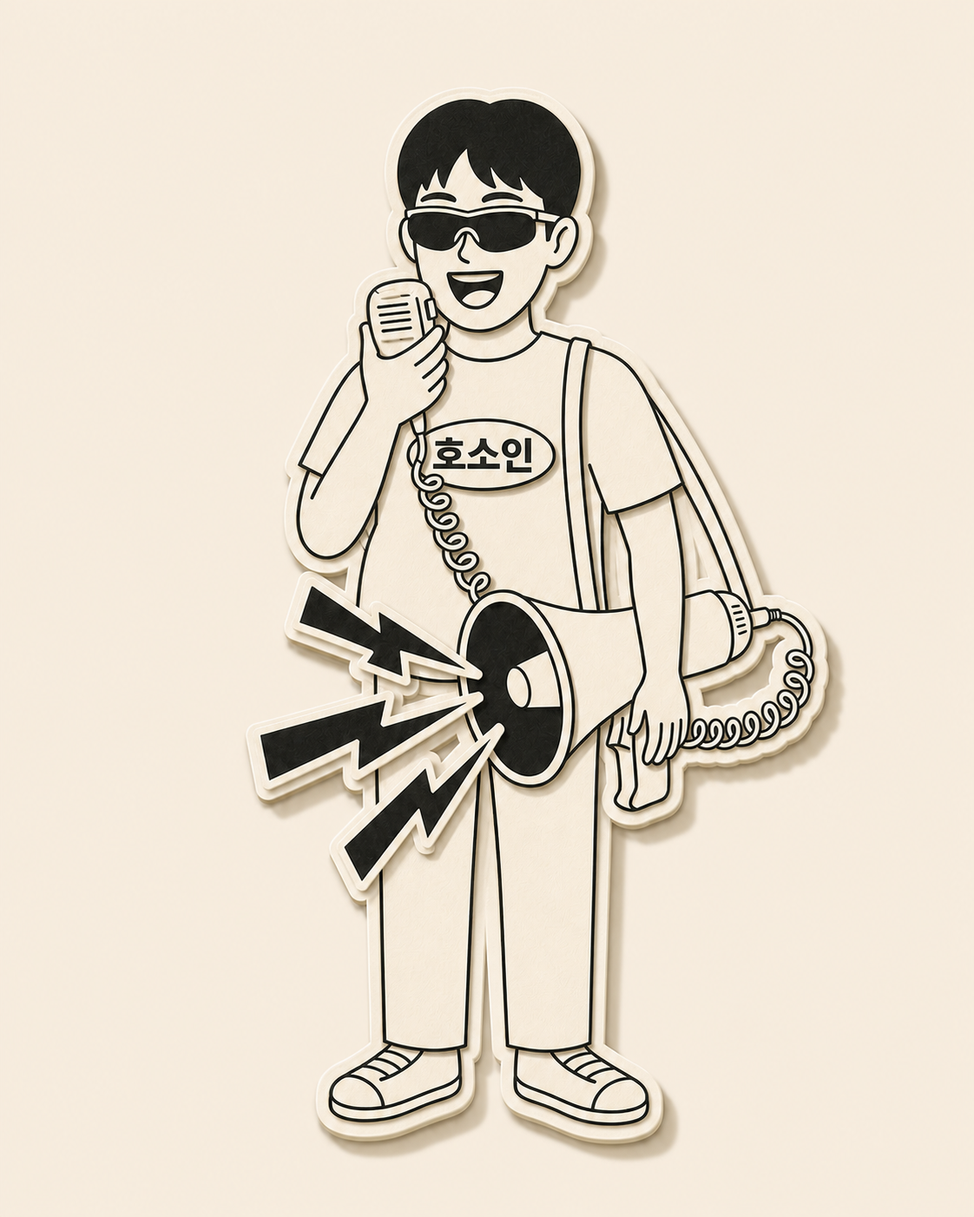
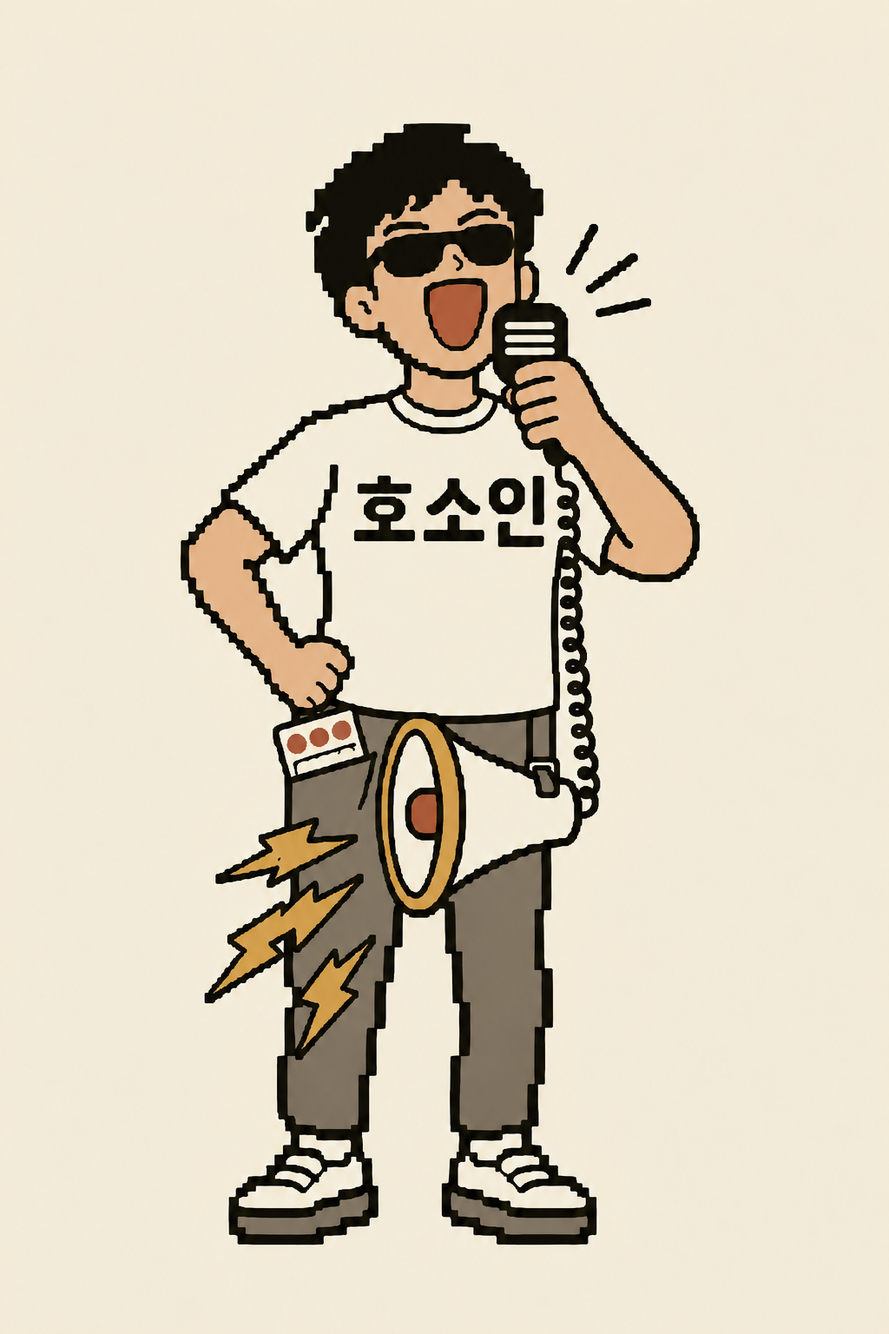
KAN-325 5등급 캐릭터를 컬러 픽셀 아트로 교체 - 사투리 여행 컨셉, 토박이 지도는 통계청 경계 합성, 결과 화면·공유 카드·가이드·링크 미리보기 갱신, 캐시 때문에 가이드 이미지 -v2·웹 자산 v3로 파일명 변경

Changed region(s): [[0.1875, 0.0613, 0.875, 0.9508]]

diff --git a/web/public/guide/index.html b/web/public/guide/index.html
@@ -407,7 +407,7 @@ nav a:hover { box-shadow: 4px 5px 0 var(--paper); }
         Android 앱, iOS 앱, 그리고 웹(accentury.app)에서 같은 테스트를 할 수 있습니다.
       </p>
       </section>
-      <section class="test-story" aria-labelledby="test-title"><h2 id="test-title">사투리 억양 테스트는 어떻게 진행되나</h2><div class="story-layout"><div class="phone-stage"><div class="phone" aria-hidden="true"><div class="phone-screen is-active" data-screen="0"><div class="app-brand">Accentury</div><div class="app-home-card app-card"><img src="/icon-192-v2.png" alt=""><h3>내 사투리 레벨 테스트</h3><p>억양과 단어로 내 사투리 등급을 알아봐요</p><div class="app-button ">레벨 테스트 시작</div></div><div class="app-attendance"><b>연속 출석</b><p>오늘 학습하면 출석이 시작돼요</p><div><span>월<i>○</i></span><span>화<i>○</i></span><span>수<i>○</i></span><span>목<i>○</i></span><span>금<i>○</i></span><span>토<i>○</i></span><span>일<i>○</i></span></div></div><div class="app-tabs"><div class=""><svg viewBox="0 0 36 36"><rect x="7" y="4" width="18" height="25" rx="2"/><path d="M7 24h18"/></svg><span>단어 학습</span></div><div class=""><svg viewBox="0 0 36 36"><path d="M2 22 Q7 2 12 18 T23 17 T30 13"/></svg><span>억양 학습</span></div><div class="active"><svg viewBox="0 0 36 36"><path d="M3 15 16 3 29 15v15H20V20h-8v10H3Z"/></svg><span>홈</span></div><div class=""><svg viewBox="0 0 36 36"><path d="M3 4h22v16H12l-7 6v-6H3Z M14 23h8l7 6V12"/></svg><span>사투리 번역기</span></div><div class=""><svg viewBox="0 0 36 36"><path d="m12 3 8 0 1 5 5 3 5-1 2 8-5 3-1 5-5 0-3 4-7-3-1-5-5-2 2-8 5-1Z"/><circle cx="17" cy="17" r="6"/></svg><span>설정</span></div></div></div><div class="phone-screen " data-screen="1"><div class="app-check"><div class="app-brand">Accentury</div><h3 class="app-check-title">목소리를 확인할게요</h3><p class="app-check-sub">아래 말을 편하게 해 주세요</p><div class="app-check-card app-card"><label>목소리 점검</label><h3>안녕하세요</h3></div><div class="app-pitch"><div class="app-lane"><label>내 억양</label><svg class="app-live" viewBox="0 0 340 100"><defs><pattern id="check-dots" width="4.5" height="4.5" patternUnits="userSpaceOnUse"><circle cx="2" cy="2" r=".85" fill="var(--brick)"/></pattern></defs><g><path fill="url(#check-dots)" d="M65 62 C95 63 107 65 142 52 L142 100 H65Z"/><path class="app-curve" d="M65 62 C95 63 107 65 142 52"/></g></svg></div></div><div class="app-level"><i></i></div><div class="app-notice">좋아요, 목소리가 잘 들려요</div><div class="app-check-footer"><div class="app-button ">다음</div><p>이 소리는 저장하거나 보내지 않아요</p></div></div><div class="app-count"><div class="app-brand">Accentury</div><span class="app-settings"><svg viewBox="0 0 36 36"><path d="m12 3 8 0 1 5 5 3 5-1 2 8-5 3-1 5-5 0-3 4-7-3-1-5-5-2 2-8 5-1Z"/><circle cx="17" cy="17" r="6"/></svg></span><div class="app-count-body"><h3>곧 시작합니다</h3><p>당신의 경남 사투리 실력을 보여주세요!</p><div class="app-count-ring">3</div></div></div></div><div class="phone-screen " data-screen="2"><div class="app-voice"><div class="app-brand">Accentury</div><span class="app-close">×</span><div class="app-progress"><div>문항 진행률 <span>1 / 7 · 음성</span></div><div class="app-segments "><i></i><i></i><i></i><i></i><i></i><i></i><i></i></div></div><div class="app-prompt app-card"><span>뿌듯한 느낌으로 말해주세요!</span><h3>여기는 봄만 되면 진달래하고 참나리가 온데만데 피가 억수로 이뻐예.</h3></div><div class="app-pitch"><div class="app-lane"><label>가이드</label><svg viewBox="0 0 340 100"><path class="app-guide" d="M0 28 C4 3 7 28 12 39 S23 58 29 70 C35 85 29 36 38 29 S47 17 52 23 C62 16 67 36 72 38 S81 65 88 75 S101 99 106 90 C112 85 106 58 114 58 C119 14 128 48 134 51 S144 87 148 77 C153 69 145 39 157 33 S166 51 170 60 S176 76 182 74 C190 94 190 47 201 36 C207 22 209 56 218 52 L224 59 L227 29 C231 48 237 45 243 54 S252 71 258 68 C268 64 261 21 272 24 L277 20 L283 23 L287 17 L291 23 L295 19 C308 27 300 76 312 74 C319 84 315 40 323 53 S333 92 336 91 L340 88"/></svg></div><div class="app-lane"><label>내 억양</label><svg class="app-live" viewBox="0 0 340 100"><defs><pattern id="voice-dots" width="4.5" height="4.5" patternUnits="userSpaceOnUse"><circle cx="2" cy="2" r=".85" fill="var(--brick)"/></pattern></defs><g><path fill="url(#voice-dots)" d="M12 61 C20 64 22 60 28 49 S37 14 42 18 C50 13 51 40 59 49 S69 61 77 60 L89 59 C95 60 101 96 105 83 C109 58 113 53 122 50 S133 21 143 29 S152 47 160 36 S167 21 171 18 L171 100 H12Z"/><path class="app-curve" d="M12 61 C20 64 22 60 28 49 S37 14 42 18 C50 13 51 40 59 49 S69 61 77 60 L89 59 C95 60 101 96 105 83 C109 58 113 53 122 50 S133 21 143 29 S152 47 160 36 S167 21 171 18"/></g></svg></div></div><div class="app-mic"><div><svg viewBox="0 0 40 40"><rect x="16" y="6" width="8" height="19" rx="4"/><path d="M11 20v3a9 9 0 0 0 18 0v-3 M20 32v7"/></svg></div><p>버튼을 눌러 녹음</p></div><div class="app-recorded"><div class="app-notice">녹음 상태가 좋아요<small>녹음 길이 2.5초</small></div><div class="app-actions"><div class="app-button secondary">재녹음</div><div class="app-button ">다음</div></div></div></div><div class="app-word"><div class="app-brand">Accentury</div><span class="app-settings"><svg viewBox="0 0 36 36"><path d="m12 3 8 0 1 5 5 3 5-1 2 8-5 3-1 5-5 0-3 4-7-3-1-5-5-2 2-8 5-1Z"/><circle cx="17" cy="17" r="6"/></svg></span><div class="app-progress"><div>문항 진행률 <span>3 / 7 · 단어</span></div><div class="app-segments word-segments"><i></i><i></i><i></i><i></i><i></i><i></i><i></i></div></div><div class="app-word-card app-card"><label>3 / 7 · 이 말은 무슨 뜻일까요?</label><h3>'정구지'는 표준어로 무엇일까요?</h3></div><div class="app-choices"><div><span>1</span>구기자</div><div><span>2</span>젓국</div><div><span>3</span>부추<b>✓</b></div><div><span>4</span>정과</div></div><div class="app-button app-word-next">다음</div></div></div><div class="phone-screen " data-screen="3"><div class="app-brand">Accentury</div><div class="app-analysis"><label class="app-analysis-count">7문항 중 3개 완료</label><div class="app-analysis-bar"><i></i></div><h3>분석 중입니다</h3><p class="app-analysis-lead">결과를 만들고 있어요</p><div class="app-analysis-steps"><div class="current"><span>1</span>곡선 추출</div><div><span>2</span>분포 비교</div><div><span>3</span>등급 계산</div></div><p>잠시만 기다려 주세요</p><ul class="app-analysis-rows"><li>1번 문항 <span>◷ 분석 중</span></li><li>2번 문항 <span>◷ 분석 중</span></li><li>4번 문항 <span>◷ 분석 중</span></li><li>6번 문항 <span>◷ 분석 중</span></li></ul></div></div><div class="phone-screen " data-screen="4"><div class="app-brand">Accentury</div><div class="app-result"><div class="result-stamp"><img src="/guide/assets/outsider.webp" alt=""><h3>외지인</h3><p>5개 등급 중 1번째</p></div><p class="app-comment">단어는 좋았어요! 억양만 조금 더 살리면 여행객까지 한 걸음이에요.</p><div class="app-score app-card"><div class="app-score-ring"><svg viewBox="0 0 100 100"><circle cx="50" cy="50" r="45"/><circle class="score-arc" cx="50" cy="50" r="45"/></svg><strong>16점</strong></div><div class="app-score-bars"><div>억양 <b>11점</b><i><em style="width:11%"></em></i></div><div>단어 <b>25점</b><i><em style="width:25%"></em></i></div></div></div><p class="app-score-note">경남 토박이 녹음과 비교한 AI 추정치예요</p><div class="app-button app-share"><svg class="app-share-icon" viewBox="0 0 24 24"><path d="M12 16V2m-5 5 5-5 5 5 M5 12H3v10h18V12h-2"/></svg>친구에게 공유하기</div></div><div class="app-tabs"><div class=""><svg viewBox="0 0 36 36"><rect x="7" y="4" width="18" height="25" rx="2"/><path d="M7 24h18"/></svg><span>단어 학습</span></div><div class=""><svg viewBox="0 0 36 36"><path d="M2 22 Q7 2 12 18 T23 17 T30 13"/></svg><span>억양 학습</span></div><div class=""><svg viewBox="0 0 36 36"><path d="M3 15 16 3 29 15v15H20V20h-8v10H3Z"/></svg><span>홈</span></div><div class=""><svg viewBox="0 0 36 36"><path d="M3 4h22v16H12l-7 6v-6H3Z M14 23h8l7 6V12"/></svg><span>사투리 번역기</span></div><div class=""><svg viewBox="0 0 36 36"><path d="m12 3 8 0 1 5 5 3 5-1 2 8-5 3-1 5-5 0-3 4-7-3-1-5-5-2 2-8 5-1Z"/><circle cx="17" cy="17" r="6"/></svg><span>설정</span></div></div></div></div><div class="step-progress" aria-hidden="true"><span class="is-active">1</span><span class="">2</span><span class="">3</span><span class="">4</span><span class="">5</span></div></div><ol class="steps"><li class="step is-active" data-step="0"><span class="step-number">01</span><h3>시작하기 전에</h3><p>시작 버튼을 누르면 브라우저가 마이크 사용 권한을 묻습니다.</p></li><li class="step " data-step="1"><span class="step-number">02</span><h3>목소리 점검과 카운트다운</h3><p>첫 문항 전에 "안녕하세요"를 한 번 말하는 점검 화면이 있습니다.</p></li><li class="step " data-step="2"><span class="step-number">03</span><h3>음성 문항과 단어 문항</h3><p>문항은 두 종류가 섞여 나옵니다.</p></li><li class="step " data-step="3"><span class="step-number">04</span><h3>분석을 기다리는 동안</h3><p>음성 문항의 녹음은 [다음]을 누를 때 서버로 올라갑니다.</p></li><li class="step " data-step="4"><span class="step-number">05</span><h3>결과 화면</h3><p>결과 화면에는 다섯 등급 가운데 내 등급과 캐릭터, 억양 점수와 단어 점수가 나옵니다.</p></li></ol></div></section>
+      <section class="test-story" aria-labelledby="test-title"><h2 id="test-title">사투리 억양 테스트는 어떻게 진행되나</h2><div class="story-layout"><div class="phone-stage"><div class="phone" aria-hidden="true"><div class="phone-screen is-active" data-screen="0"><div class="app-brand">Accentury</div><div class="app-home-card app-card"><img src="/icon-192-v3.png" alt=""><h3>내 사투리 레벨 테스트</h3><p>억양과 단어로 내 사투리 등급을 알아봐요</p><div class="app-button ">레벨 테스트 시작</div></div><div class="app-attendance"><b>연속 출석</b><p>오늘 학습하면 출석이 시작돼요</p><div><span>월<i>○</i></span><span>화<i>○</i></span><span>수<i>○</i></span><span>목<i>○</i></span><span>금<i>○</i></span><span>토<i>○</i></span><span>일<i>○</i></span></div></div><div class="app-tabs"><div class=""><svg viewBox="0 0 36 36"><rect x="7" y="4" width="18" height="25" rx="2"/><path d="M7 24h18"/></svg><span>단어 학습</span></div><div class=""><svg viewBox="0 0 36 36"><path d="M2 22 Q7 2 12 18 T23 17 T30 13"/></svg><span>억양 학습</span></div><div class="active"><svg viewBox="0 0 36 36"><path d="M3 15 16 3 29 15v15H20V20h-8v10H3Z"/></svg><span>홈</span></div><div class=""><svg viewBox="0 0 36 36"><path d="M3 4h22v16H12l-7 6v-6H3Z M14 23h8l7 6V12"/></svg><span>사투리 번역기</span></div><div class=""><svg viewBox="0 0 36 36"><path d="m12 3 8 0 1 5 5 3 5-1 2 8-5 3-1 5-5 0-3 4-7-3-1-5-5-2 2-8 5-1Z"/><circle cx="17" cy="17" r="6"/></svg><span>설정</span></div></div></div><div class="phone-screen " data-screen="1"><div class="app-check"><div class="app-brand">Accentury</div><h3 class="app-check-title">목소리를 확인할게요</h3><p class="app-check-sub">아래 말을 편하게 해 주세요</p><div class="app-check-card app-card"><label>목소리 점검</label><h3>안녕하세요</h3></div><div class="app-pitch"><div class="app-lane"><label>내 억양</label><svg class="app-live" viewBox="0 0 340 100"><defs><pattern id="check-dots" width="4.5" height="4.5" patternUnits="userSpaceOnUse"><circle cx="2" cy="2" r=".85" fill="var(--brick)"/></pattern></defs><g><path fill="url(#check-dots)" d="M65 62 C95 63 107 65 142 52 L142 100 H65Z"/><path class="app-curve" d="M65 62 C95 63 107 65 142 52"/></g></svg></div></div><div class="app-level"><i></i></div><div class="app-notice">좋아요, 목소리가 잘 들려요</div><div class="app-check-footer"><div class="app-button ">다음</div><p>이 소리는 저장하거나 보내지 않아요</p></div></div><div class="app-count"><div class="app-brand">Accentury</div><span class="app-settings"><svg viewBox="0 0 36 36"><path d="m12 3 8 0 1 5 5 3 5-1 2 8-5 3-1 5-5 0-3 4-7-3-1-5-5-2 2-8 5-1Z"/><circle cx="17" cy="17" r="6"/></svg></span><div class="app-count-body"><h3>곧 시작합니다</h3><p>당신의 경남 사투리 실력을 보여주세요!</p><div class="app-count-ring">3</div></div></div></div><div class="phone-screen " data-screen="2"><div class="app-voice"><div class="app-brand">Accentury</div><span class="app-close">×</span><div class="app-progress"><div>문항 진행률 <span>1 / 7 · 음성</span></div><div class="app-segments "><i></i><i></i><i></i><i></i><i></i><i></i><i></i></div></div><div class="app-prompt app-card"><span>뿌듯한 느낌으로 말해주세요!</span><h3>여기는 봄만 되면 진달래하고 참나리가 온데만데 피가 억수로 이뻐예.</h3></div><div class="app-pitch"><div class="app-lane"><label>가이드</label><svg viewBox="0 0 340 100"><path class="app-guide" d="M0 28 C4 3 7 28 12 39 S23 58 29 70 C35 85 29 36 38 29 S47 17 52 23 C62 16 67 36 72 38 S81 65 88 75 S101 99 106 90 C112 85 106 58 114 58 C119 14 128 48 134 51 S144 87 148 77 C153 69 145 39 157 33 S166 51 170 60 S176 76 182 74 C190 94 190 47 201 36 C207 22 209 56 218 52 L224 59 L227 29 C231 48 237 45 243 54 S252 71 258 68 C268 64 261 21 272 24 L277 20 L283 23 L287 17 L291 23 L295 19 C308 27 300 76 312 74 C319 84 315 40 323 53 S333 92 336 91 L340 88"/></svg></div><div class="app-lane"><label>내 억양</label><svg class="app-live" viewBox="0 0 340 100"><defs><pattern id="voice-dots" width="4.5" height="4.5" patternUnits="userSpaceOnUse"><circle cx="2" cy="2" r=".85" fill="var(--brick)"/></pattern></defs><g><path fill="url(#voice-dots)" d="M12 61 C20 64 22 60 28 49 S37 14 42 18 C50 13 51 40 59 49 S69 61 77 60 L89 59 C95 60 101 96 105 83 C109 58 113 53 122 50 S133 21 143 29 S152 47 160 36 S167 21 171 18 L171 100 H12Z"/><path class="app-curve" d="M12 61 C20 64 22 60 28 49 S37 14 42 18 C50 13 51 40 59 49 S69 61 77 60 L89 59 C95 60 101 96 105 83 C109 58 113 53 122 50 S133 21 143 29 S152 47 160 36 S167 21 171 18"/></g></svg></div></div><div class="app-mic"><div><svg viewBox="0 0 40 40"><rect x="16" y="6" width="8" height="19" rx="4"/><path d="M11 20v3a9 9 0 0 0 18 0v-3 M20 32v7"/></svg></div><p>버튼을 눌러 녹음</p></div><div class="app-recorded"><div class="app-notice">녹음 상태가 좋아요<small>녹음 길이 2.5초</small></div><div class="app-actions"><div class="app-button secondary">재녹음</div><div class="app-button ">다음</div></div></div></div><div class="app-word"><div class="app-brand">Accentury</div><span class="app-settings"><svg viewBox="0 0 36 36"><path d="m12 3 8 0 1 5 5 3 5-1 2 8-5 3-1 5-5 0-3 4-7-3-1-5-5-2 2-8 5-1Z"/><circle cx="17" cy="17" r="6"/></svg></span><div class="app-progress"><div>문항 진행률 <span>3 / 7 · 단어</span></div><div class="app-segments word-segments"><i></i><i></i><i></i><i></i><i></i><i></i><i></i></div></div><div class="app-word-card app-card"><label>3 / 7 · 이 말은 무슨 뜻일까요?</label><h3>'정구지'는 표준어로 무엇일까요?</h3></div><div class="app-choices"><div><span>1</span>구기자</div><div><span>2</span>젓국</div><div><span>3</span>부추<b>✓</b></div><div><span>4</span>정과</div></div><div class="app-button app-word-next">다음</div></div></div><div class="phone-screen " data-screen="3"><div class="app-brand">Accentury</div><div class="app-analysis"><label class="app-analysis-count">7문항 중 3개 완료</label><div class="app-analysis-bar"><i></i></div><h3>분석 중입니다</h3><p class="app-analysis-lead">결과를 만들고 있어요</p><div class="app-analysis-steps"><div class="current"><span>1</span>곡선 추출</div><div><span>2</span>분포 비교</div><div><span>3</span>등급 계산</div></div><p>잠시만 기다려 주세요</p><ul class="app-analysis-rows"><li>1번 문항 <span>◷ 분석 중</span></li><li>2번 문항 <span>◷ 분석 중</span></li><li>4번 문항 <span>◷ 분석 중</span></li><li>6번 문항 <span>◷ 분석 중</span></li></ul></div></div><div class="phone-screen " data-screen="4"><div class="app-brand">Accentury</div><div class="app-result"><div class="result-stamp"><img src="/guide/assets/outsider-v2.webp" alt=""><h3>외지인</h3><p>5개 등급 중 1번째</p></div><p class="app-comment">단어는 좋았어요! 억양만 조금 더 살리면 여행객까지 한 걸음이에요.</p><div class="app-score app-card"><div class="app-score-ring"><svg viewBox="0 0 100 100"><circle cx="50" cy="50" r="45"/><circle class="score-arc" cx="50" cy="50" r="45"/></svg><strong>16점</strong></div><div class="app-score-bars"><div>억양 <b>11점</b><i><em style="width:11%"></em></i></div><div>단어 <b>25점</b><i><em style="width:25%"></em></i></div></div></div><p class="app-score-note">경남 토박이 녹음과 비교한 AI 추정치예요</p><div class="app-button app-share"><svg class="app-share-icon" viewBox="0 0 24 24"><path d="M12 16V2m-5 5 5-5 5 5 M5 12H3v10h18V12h-2"/></svg>친구에게 공유하기</div></div><div class="app-tabs"><div class=""><svg viewBox="0 0 36 36"><rect x="7" y="4" width="18" height="25" rx="2"/><path d="M7 24h18"/></svg><span>단어 학습</span></div><div class=""><svg viewBox="0 0 36 36"><path d="M2 22 Q7 2 12 18 T23 17 T30 13"/></svg><span>억양 학습</span></div><div class=""><svg viewBox="0 0 36 36"><path d="M3 15 16 3 29 15v15H20V20h-8v10H3Z"/></svg><span>홈</span></div><div class=""><svg viewBox="0 0 36 36"><path d="M3 4h22v16H12l-7 6v-6H3Z M14 23h8l7 6V12"/></svg><span>사투리 번역기</span></div><div class=""><svg viewBox="0 0 36 36"><path d="m12 3 8 0 1 5 5 3 5-1 2 8-5 3-1 5-5 0-3 4-7-3-1-5-5-2 2-8 5-1Z"/><circle cx="17" cy="17" r="6"/></svg><span>설정</span></div></div></div></div><div class="step-progress" aria-hidden="true"><span class="is-active">1</span><span class="">2</span><span class="">3</span><span class="">4</span><span class="">5</span></div></div><ol class="steps"><li class="step is-active" data-step="0"><span class="step-number">01</span><h3>시작하기 전에</h3><p>시작 버튼을 누르면 브라우저가 마이크 사용 권한을 묻습니다.</p></li><li class="step " data-step="1"><span class="step-number">02</span><h3>목소리 점검과 카운트다운</h3><p>첫 문항 전에 "안녕하세요"를 한 번 말하는 점검 화면이 있습니다.</p></li><li class="step " data-step="2"><span class="step-number">03</span><h3>음성 문항과 단어 문항</h3><p>문항은 두 종류가 섞여 나옵니다.</p></li><li class="step " data-step="3"><span class="step-number">04</span><h3>분석을 기다리는 동안</h3><p>음성 문항의 녹음은 [다음]을 누를 때 서버로 올라갑니다.</p></li><li class="step " data-step="4"><span class="step-number">05</span><h3>결과 화면</h3><p>결과 화면에는 다섯 등급 가운데 내 등급과 캐릭터, 억양 점수와 단어 점수가 나옵니다.</p></li></ol></div></section>
       <section class="landing-tiers" aria-labelledby="tiers-title">
         <h2 id="tiers-title">테스트는 이렇게 진행됩니다</h2>
         <p>
@@ -416,11 +416,11 @@ nav a:hover { box-shadow: 4px 5px 0 var(--paper); }
         억양 점수와 단어 점수를 합산해 다음 다섯 등급 가운데 하나로 판정합니다.
       </p>
         <ol class="tier-grid">
-            <li class="stamp reveal"><img src="/guide/assets/outsider.webp" alt="외지인" width="160" height="160" loading="lazy" /><span>외지인</span></li>
-            <li class="stamp reveal"><img src="/guide/assets/traveler.webp" alt="여행객" width="160" height="160" loading="lazy" /><span>여행객</span></li>
-            <li class="stamp reveal"><img src="/guide/assets/wannabe.webp" alt="사투리 호소인" width="160" height="160" loading="lazy" /><span>사투리 호소인</span></li>
-            <li class="stamp reveal"><img src="/guide/assets/honorary.webp" alt="명예주민" width="160" height="160" loading="lazy" /><span>명예주민</span></li>
-            <li class="stamp reveal"><img src="/guide/assets/native.webp" alt="경남 토박이" width="160" height="160" loading="lazy" /><span>경남 토박이</span></li>
+            <li class="stamp reveal"><img src="/guide/assets/outsider-v2.webp" alt="외지인" width="160" height="160" loading="lazy" /><span>외지인</span></li>
+            <li class="stamp reveal"><img src="/guide/assets/traveler-v2.webp" alt="여행객" width="160" height="160" loading="lazy" /><span>여행객</span></li>
+            <li class="stamp reveal"><img src="/guide/assets/wannabe-v2.webp" alt="사투리 호소인" width="160" height="160" loading="lazy" /><span>사투리 호소인</span></li>
+            <li class="stamp reveal"><img src="/guide/assets/honorary-v2.webp" alt="명예주민" width="160" height="160" loading="lazy" /><span>명예주민</span></li>
+            <li class="stamp reveal"><img src="/guide/assets/native-v2.webp" alt="경남 토박이" width="160" height="160" loading="lazy" /><span>경남 토박이</span></li>
         </ol>
       </section>
       <section class="landing-stories" aria-labelledby="stories-title">

diff --git a/web/index.html b/web/index.html
@@ -15,9 +15,9 @@
       내용을 바꿔도 1년 동안 옛 것이 나간다. 교체는 build.py의 VERSION을 올려 이름을 바꾸고
       여기 참조를 따라 고치는 것이다. index.html만 no-cache라 그 즉시 새 이름이 나간다.
     -->
-    <link rel="icon" type="image/svg+xml" href="/favicon-v2.svg" />
-    <link rel="apple-touch-icon" href="/apple-touch-icon-v2.png" />
-    <link rel="manifest" href="/manifest-v2.webmanifest" />
+    <link rel="icon" type="image/svg+xml" href="/favicon-v3.svg" />
+    <link rel="apple-touch-icon" href="/apple-touch-icon-v3.png" />
+    <link rel="manifest" href="/manifest-v3.webmanifest" />
     <!-- 주소창·상태 표시줄을 화면 종이색으로. 값은 --color-background와 같다 -->
     <meta name="theme-color" content="#f3ecd9" />
 
@@ -40,7 +40,7 @@
     <meta property="og:title" content="사투리 좀 치나?" />
     <meta property="og:description" content="내 말투가 얼마나 경남 사투리인지 목소리로 재 봐요. 5등급 중 내 등급은?" />
     <meta property="og:url" content="https://accentury.app/" />
-    <meta property="og:image" content="https://accentury.app/og-card-v2.png" />
+    <meta property="og:image" content="https://accentury.app/og-card-v3.png" />
     <meta property="og:image:width" content="1200" />
     <meta property="og:image:height" content="630" />
     <meta property="og:image:alt" content="확성기를 든 사투리 호소인 캐릭터와 '사투리 좀 치나?' 문구" />

diff --git a/web/src/App.tsx b/web/src/App.tsx
@@ -856,7 +856,7 @@ function HomeScreen({
           {levelTest === null ? (
             /* 디자인 3 (KAN-288, 시안 31): 앱 아이콘·제목·설명·버튼이 종이 카드 한 장에 묶인다 */
             <div className="card home-card">
-              <img className="home-card__icon" src={`${import.meta.env.BASE_URL}icon-192-v2.png`} alt="" />
+              <img className="home-card__icon" src={`${import.meta.env.BASE_URL}icon-192-v3.png`} alt="" />
               <h1 className="type-title">내 사투리 레벨 테스트</h1>
               <p className="type-body home-card__lead">억양과 단어로 내 사투리 등급을 알아봐요</p>
               <Button onClick={onStartTest} style={{ width: '100%' }}>

diff --git a/web/src/webAppMeta.test.ts b/web/src/webAppMeta.test.ts
@@ -41,7 +41,7 @@ function pngSize(path: string): [number, number] {
   return [buf.readUInt32BE(16), buf.readUInt32BE(20)]
 }
 
-/** `/favicon-v2.svg` → `web/public/favicon-v2.svg`. 절대 URL이면 오리진을 떼고 같은 규칙을 쓴다. */
+/** `/favicon-v3.svg` → `web/public/favicon-v3.svg`. 절대 URL이면 오리진을 떼고 같은 규칙을 쓴다. */
 function publicPath(reference: string): string {
   const path = reference.startsWith(ORIGIN) ? reference.slice(ORIGIN.length) : reference
   return join(PUBLIC_DIR, path.replace(/^\//, ''))

diff --git a/web/src/translator/TranslatorScreen.test.tsx b/web/src/translator/TranslatorScreen.test.tsx
@@ -152,7 +152,7 @@ describe('요청과 결과', () => {
     submit()
     fireEvent.click(await screen.findByRole('button', { name: '공유' }))
     expect(shareResult).toHaveBeenCalledWith({
-      imageUrl: 'https://accentury.app/og-card-v2.png',
+      imageUrl: 'https://accentury.app/og-card-v3.png',
       text: '밥 먹었어? → 밥 뭇나?',
       webTestUrl: 'https://accentury.app/t?c=kko_share',
     })

diff --git a/assets/web/build.py b/assets/web/build.py
@@ -72,7 +72,7 @@ shots = _load("accentury_screenshots_build", REPO / "assets" / "screenshots" / "
 
 # ── 상수 ────────────────────────────────────────────────────────────────────────────────────
 
-VERSION = "v2"
+VERSION = "v3"
 
 CREAM = icon.CREAM  # --color-background #F3ECD9
 INK = icon.INK  # --color-primary #1C1A17

diff --git a/assets/characters/wannabe/prompt.md b/assets/characters/wannabe/prompt.md
@@ -1,15 +1,56 @@
-Use the built-in `image_gen` tool (default mode, no CLI fallback) to generate ONE image and save it as `wannabe.png` in the current directory (overwrite). Do not ask questions; proceed with sensible defaults. Portrait orientation (1024x1536 or the closest portrait size).
+Use case: identity-preserve. Regenerate a portrait 1024x1536 pixel art character asset. The matching current image is the edit target; traveler reference anchors the same person's black hair, head size, body proportions, outline weight and muted palette. Preserve identity across the series. Head size approximately 240 pixels tall including hair, person at least 55% of canvas height. Crisp square pixels on a single consistent coarse grid, chunky silhouette with a one-grid-pixel ink outline. Flat fills ONLY these eight colors: cream #F3ECD9, shade #CFC5AA, ink #1C1A17, warm gray #6B6459, terracotta #A8503A, ochre #C49A4A, dusty teal #6F8F8A, tan #DDB892. Skin is tan. No anti-aliasing, blur, gradients, dithering or texture. Background entirely flat uniform cream #F3ECD9. At least 8% empty margin on EVERY side. No floor, horizon, vignette, logo, signature or watermark. No text except explicitly requested Korean text. Keep the entire figure and every prop within margins.
 
-Two images are attached. The FIRST is our current version of this character — keep it exactly as it is: same character, pose, props, composition, colors and layered-paper shadows. The SECOND is a sibling character from the same set showing the ONE thing to change: the cut edge of every paper piece.
+Input image 1 is matching current wannabe; image 2 is traveler identity/style reference; image 3 is old paper-cut wannabe ONLY for plain t-shirt and solid black sunglasses, never its medium. Replace outfit with plain short-sleeve cream t-shirt bearing exactly "호소인" large and centered across chest, plain warm gray trousers, sneakers. No jacket, badge or bag strap across text. Solid black sunglasses cover eyes. Head faces FRONT and tilts back slightly; huge open-mouth SHOUT into handheld microphone. Megaphone at hip with exactly three ochre lightning bolts. Half-filled stamp card sticks from trouser pocket. Chest text must be unobstructed, exactly 호소인. Everything in pixel art, no paper-cut styling.
 
-Change only this: every paper piece must be cut STICKER-STYLE — the scissors cut runs OUTSIDE the black ink outline, leaving a visible cream paper margin (about 6–10 px at 1024 width, uniform) between the black outline and the cut edge, all the way around the figure and around each separate piece (microphone, coiled cord, megaphone, each lightning bolt). The offset shadow (#CFC5AA, hard, lower-right) falls from that outer cut edge, not from the ink line. Do not change anything else.
 
-Prompt to send to image_gen:
+## 후속 편집 (순서대로)
 
-Layered paper-cut collage illustration, Korean webtoon-style character, full body, centered, matching the attached first image exactly.
-Subject: a young man with black sunglasses, big open-mouth grin, speaking into a handheld radio microphone with a coiled cord, a portable megaphone speaker hung at his hip with three lightning bolts bursting from it, a chest badge with the Korean text "호소인" in bold rounded letters, t-shirt and pants, sneakers.
-Construction: every part is a separate piece of thick cream card stock (#F3ECD9) stacked in layers. Each piece is cut sticker-style: a clean scissor cut that runs outside the black ink outline, leaving a uniform cream paper margin between the outline and the cut edge, so a cream rim is visible all around the figure and around every prop. Upper pieces cast a hard offset shadow (#CFC5AA, no blur, toward the lower right) from their cut edge onto the piece beneath. Slight visible paper thickness at the cut edges. Black ink outlines (#1C1A17) of uniform thickness; hair, sunglasses and mouth interior are near-black paper (#1C1A17). Only these three colors, matte paper.
-Background: one flat, completely uniform cream paper (#F3ECD9). No floor line, no horizon, no ground band, no gradient, no vignette, no texture, no lighting effects.
-Character occupies the middle 75% of the height; feet fully visible; at least 8% empty margin on every side. Nothing touches the edges. No logo, signature, or watermark anywhere.
+Use the built-in `image_gen` tool (default mode, no CLI fallback), editing the first attached image. Do not ask questions. Do not write SVG or draw by code. Save `wannabe.png` in the current directory, portrait 1024x1536.
 
-After saving, print only: DONE wannabe.png <width>x<height>.
+Attached: (1) the base pixel art to edit, its t-shirt is complete and correct, (2) the older paper-cut version, reference ONLY for the radio microphone, coiled cord and megaphone, (3) the last attempt, reference ONLY for the look of the radio microphone body and the round stamps. Attempt 3 has defects listed below, do not copy them.
+
+Keep from image 1: person, face, sunglasses, shout, t-shirt with the Korean text "호소인", trousers, shoes, left arm on hip, pixel style, position and scale.
+
+Make these changes to image 1:
+1. Hand and microphone: replace the ball microphone with a rectangular radio speaker microphone. The raised hand must grip it: fingers wrapped around the microphone body, with the body visibly inside the fist, held at the mouth. It must not float next to the hand.
+2. Megaphone: same place as in image 1, at the hip on the viewer's right, reversed so the wide bell faces the viewer's left and the narrow end faces right. A short strap runs from the viewer's right shoulder down the side of the torso to the megaphone so it hangs from something. The strap stays clear of the text.
+3. Cord: a coiled black cord runs from the bottom of the microphone to the narrow end of the megaphone. It passes OVER the shirt and arm as a separate object, and nothing under it is erased.
+4. Bolts: three ochre lightning bolts from the bell, placed low, on the viewer's left thigh and knee level, fanning left and downward. None in the crotch or groin area.
+5. Stamp card: small, in the trouser pocket on the viewer's left, with round terracotta stamps.
+
+Defects from attempt 3 that must not appear: hand not holding the microphone; the right side seam of the t-shirt missing; the t-shirt hem missing so the shirt melts into the background; the right sleeve missing; bolts on the groin.
+The t-shirt must have a complete closed ink outline: both sleeves, both side seams, and a continuous hem across the waist, all visible around the megaphone and cord.
+
+Use only these flat colors: cream #F3ECD9, shade #CFC5AA, ink #1C1A17, warm gray #6B6459, terracotta #A8503A, ochre #C49A4A, dusty teal #6F8F8A, tan #DDB892. Crisp square pixels, no blur or gradient. Background stays one flat uniform cream #F3ECD9. Nothing touches an edge. No new text, logo or watermark.
+
+After saving, print: DONE wannabe.png <width>x<height>.
+
+
+---
+
+Use the built-in `image_gen` tool (default mode, no CLI fallback), editing the first attached image. Do not ask questions. Do not write SVG or draw by code. Save `wannabe.png` in the current directory, portrait 1024x1536.
+
+Attached: (1) the image to edit, (2) reference ONLY for the t-shirt's right sleeve and side seam.
+
+Keep everything in image 1 exactly, including the hand gripping the radio microphone, the megaphone, the three bolts, the stamp card, the face, and the text "호소인". Fix only these:
+1. Delete the ochre strap completely. It reads as a stick. Nothing replaces it across the shirt. Restore the plain shirt under it.
+2. Restore the t-shirt's short right sleeve from image 2: the sleeve end with its ink outline wraps the upper arm near the elbow, and the shirt's side seam runs unbroken from the armpit to the hem, as in image 2.
+3. Route the coiled cord from the bottom of the microphone outward, over the forearm, then down outside the elbow to the narrow end of the megaphone. Keep it clear of the sleeve end and side seam so both stay fully visible.
+4. Add one small dark clip joining the narrow end of the megaphone to the waistband, so it hangs from the belt.
+
+Checks before saving: shirt outline closed on both sides, continuous hem, both sleeves visible, no ochre line on the torso. Colors, crisp pixels and flat cream background stay as in image 1. Nothing touches an edge. No new text, logo or watermark.
+
+After saving, print: DONE wannabe.png <width>x<height>.
+
+
+---
+
+Use the built-in `image_gen` tool (default mode, no CLI fallback), editing the attached image. Do not ask questions. Do not write SVG or draw by code. Save `wannabe.png` in the current directory, portrait 1024x1536.
+
+Keep everything in the attached image exactly, including the face, the hand gripping the radio microphone, the t-shirt with both sleeves, side seams and hem, the text "호소인", the megaphone and its clip, the bolts, the stamp card. Change only these:
+1. Radio microphone: its body becomes near-black #1C1A17, with its grille lines in cream #F3ECD9 so it still reads as a radio. Same shape, size and place, still gripped by the same fingers.
+2. Coiled cord: remove every part of the cord from the forearm and elbow. The arm must be clean bare skin with no cord on it or behind it. Draw a new coiled black cord that starts at the bottom of the microphone, right under the fist, and comes straight down through the gap between the raised arm and the torso, passing on the inner side of the arm, then runs down along the outside of the shirt's right side seam to the narrow end of the megaphone. It is one unbroken cord from microphone to megaphone. It does not touch the text, and does not hide the sleeve end, side seam or hem.
+
+Checks before saving: forearm has no cord; cord is continuous and visibly attached at both ends; shirt outline still closed. Colors, crisp pixels and flat cream background stay as in the image. Nothing touches an edge. No new text, logo or watermark.
+
+After saving, print: DONE wannabe.png <width>x<height>.

diff --git a/assets/characters/outsider/prompt.md b/assets/characters/outsider/prompt.md
@@ -1,13 +1,2 @@
-Use the built-in `image_gen` tool (default mode, no CLI fallback) to generate ONE image and save it as `outsider.png` in the current directory. Do not ask questions; proceed with sensible defaults. Portrait orientation (1024x1536 or the closest portrait size).
-
-The attached image is our own earlier draft of the same character — keep its composition and mood, but follow the style rules below exactly.
-
-Prompt to send to image_gen:
-
-Paper-cut illustration, Korean webtoon-style character, full body, centered.
-Subject: a young man in a plain long-sleeve shirt and pants, running away to the right in panic, crying with two or three tear drops flying off, mouth open, short black hair. Two seagulls dive at him from the upper left, wings spread, beaks open.
-Every element is cut from flat cream paper (#F3ECD9) with clean black ink outlines (#1C1A17) of uniform thickness, layered with a small hard offset drop shadow (#CFC5AA) toward the lower right, no blur. Character, props and background are all the same cream paper; shapes are separated only by the outline and the offset shadow. Hair, pupils and mouth interior: near-black paper (#1C1A17). Only these three colors.
-Background: one flat, completely uniform cream paper (#F3ECD9). No floor line, no horizon, no ground band, no gradient, no vignette, no visible paper texture, no lighting effects.
-Character occupies the middle 75% of the height; feet fully visible; at least 8% empty margin on every side. Nothing touches the edges. No text, logo, signature, or watermark anywhere.
-
-After saving, print only: DONE outsider.png <width>x<height>.
+Create one final Accentury dialect-trip tier character illustration, portrait PNG exactly 1024x1536. Both supplied images are our own drafts: image 1 outsider and image 2 native. Use BOTH as references for the exact same person, short side-parted black hair, identical face, head size and body proportions, and their chunky pixel art style, palette feel and outline weight. Render crisp square pixels on a single consistent coarse pixel grid (approximately 8 output pixels per art pixel), with a 1-art-pixel ink outline. Flat fills only. No anti-aliasing, blur, gradients, dithering, texture or vignette. Use ONLY these eight exact colors: cream #F3ECD9, shade #CFC5AA, ink #1C1A17, warm gray #6B6459, terracotta #A8503A, ochre #C49A4A, dusty teal #6F8F8A, tan #DDB892. Skin tan. Earthy muted colors, never bright. Uniform flat cream #F3ECD9 background. No floor line or horizon. Keep all art inside x=88..936 and y=128..1408, leaving at least 8% empty margin on every side. Person occupies at least 55% canvas height; head consistently about 210px wide, same scale across the set. Props must not dwarf him. Terracotta is restricted to ONE small item per image. No text except the expressly requested Korean badge or flag text for applicable characters. No title, logo, signature or watermark. 
+Scene: Tier outsider (외지인). Recreate the scene and pose of reference image 1: confused worried traveler standing with backpack, sweat drops, large unfolded map held in both hands, small airplane to his left, wheeled suitcase on left and bus stop sign on right. Suitcase MUST be ochre, not terracotta. Map is visibly held upside down: every pictorial icon including bridges and landmark symbols is inverted by 180 degrees, and the compass triangle needle points DOWN. Only the small downward compass needle is terracotta; all other map marks ink. Bus sign rim ochre. Preserve the reference person's identity and scene, fit all props within margins. No written text.

diff --git a/assets/characters/honorary/prompt.md b/assets/characters/honorary/prompt.md
@@ -1,13 +1,3 @@
-Use the built-in `image_gen` tool (default mode, no CLI fallback) to generate ONE image and save it as `honorary.png` in the current directory. Do not ask questions; proceed with sensible defaults. Portrait orientation (1024x1536 or the closest portrait size).
+Use case: identity-preserve. Regenerate a portrait 1024x1536 pixel art character asset. The matching current image is the edit target; traveler reference anchors the same person's black hair, head size, body proportions, outline weight and muted palette. Preserve identity across the series. Head size approximately 240 pixels tall including hair, person at least 55% of canvas height. Crisp square pixels on a single consistent coarse grid, chunky silhouette with a one-grid-pixel ink outline. Flat fills ONLY these eight colors: cream #F3ECD9, shade #CFC5AA, ink #1C1A17, warm gray #6B6459, terracotta #A8503A, ochre #C49A4A, dusty teal #6F8F8A, tan #DDB892. Skin is tan. No anti-aliasing, blur, gradients, dithering or texture. Background entirely flat uniform cream #F3ECD9. At least 8% empty margin on EVERY side. No floor, horizon, vignette, logo, signature or watermark. No text except explicitly requested Korean text. Keep the entire figure and every prop within margins.
 
-The attached image is our own earlier draft of the same character — keep its composition, pose and props, but follow the style rules below exactly (recolor everything to the cream/ink palette, remove any floor band, texture or watermark).
-
-Prompt to send to image_gen:
-
-Paper-cut illustration, Korean webtoon-style character, full body, centered.
-Subject: a young man seen from behind in three-quarter view looking over his shoulder with a proud smile, bucket hat, backpack, cargo pants, hiking boots, standing on a flat paper mountain peak shape, planting a tall flagpole with a triangular black pennant that reads "명예주민" in bold Korean letters, two or three small paper clouds beside him. The peak is a shape cut from the same paper, not a ground band.
-Every element is cut from flat cream paper (#F3ECD9) with clean black ink outlines (#1C1A17) of uniform thickness, layered with a small hard offset drop shadow (#CFC5AA) toward the lower right, no blur. Character, props and background are all the same cream paper; shapes are separated only by the outline and the offset shadow. Hair, sunglasses, suit, pupils and mouth interior: near-black paper (#1C1A17). Only these three colors.
-Background: one flat, completely uniform cream paper (#F3ECD9). No floor line, no horizon, no ground band, no gradient, no vignette, no visible paper texture, no lighting effects.
-Character occupies the middle 75% of the height; feet fully visible; at least 8% empty margin on every side. Nothing touches the edges. No logo, signature, or watermark anywhere.
-
-After saving, print only: DONE honorary.png <width>x<height>.
+Input image 1 is matching current honorary; image 2 is traveler identity/style reference. Preserve teal hiking hat, cream hiking shirt, teal backpack, cargo trousers, sneakers, mountain, two clouds, stamp card and terracotta pennant with exactly "명예주민". Head in unmistakable SIDE PROFILE facing viewer's RIGHT, gazing far into distance with calm closed-mouth smile. One hand shades the eyes at brow; other holds pennant pole. Stamp card remains attached to backpack. Preserve same person's recognizable hair and head scale. Only text is 명예주민 on pennant.

diff --git a/assets/characters/native/prompt.md b/assets/characters/native/prompt.md
@@ -1,13 +1,3 @@
-Use the built-in `image_gen` tool (default mode, no CLI fallback) to generate ONE image and save it as `native.png` in the current directory. Do not ask questions; proceed with sensible defaults. Portrait orientation (1024x1536 or the closest portrait size).
+Use case: identity-preserve. Regenerate a portrait 1024x1536 pixel art character asset. The matching current image is the edit target; traveler reference anchors the same person's black hair, head size, body proportions, outline weight and muted palette. Preserve identity across the series. Head size approximately 240 pixels tall including hair, person at least 55% of canvas height. Crisp square pixels on a single consistent coarse grid, chunky silhouette with a one-grid-pixel ink outline. Flat fills ONLY these eight colors: cream #F3ECD9, shade #CFC5AA, ink #1C1A17, warm gray #6B6459, terracotta #A8503A, ochre #C49A4A, dusty teal #6F8F8A, tan #DDB892. Skin is tan. No anti-aliasing, blur, gradients, dithering or texture. Background entirely flat uniform cream #F3ECD9. At least 8% empty margin on EVERY side. No floor, horizon, vignette, logo, signature or watermark. No text except explicitly requested Korean text. Keep the entire figure and every prop within margins.
 
-The attached image is our own earlier draft of the same character — keep its composition, pose and props, but follow the style rules below exactly (recolor everything to the cream/ink palette, remove any floor band, texture or watermark).
-
-Prompt to send to image_gen:
-
-Paper-cut illustration, Korean webtoon-style character, full body, centered.
-Subject: a calm confident man in a black suit and tie sitting on a large ornate wingback armchair, legs crossed, hands folded, slight smile. Behind him a flat paper cut-out silhouette of Gyeongsangnam-do province (South Korea) including its southern islands, drawn as one paper shape with ink outline. No floor band under the chair.
-Every element is cut from flat cream paper (#F3ECD9) with clean black ink outlines (#1C1A17) of uniform thickness, layered with a small hard offset drop shadow (#CFC5AA) toward the lower right, no blur. Character, props and background are all the same cream paper; shapes are separated only by the outline and the offset shadow. Hair, sunglasses, suit, pupils and mouth interior: near-black paper (#1C1A17). Only these three colors.
-Background: one flat, completely uniform cream paper (#F3ECD9). No floor line, no horizon, no ground band, no gradient, no vignette, no visible paper texture, no lighting effects.
-Character occupies the middle 75% of the height; feet fully visible; at least 8% empty margin on every side. Nothing touches the edges. No logo, signature, or watermark anywhere.
-
-After saving, print only: DONE native.png <width>x<height>.
+Input image 1 is matching current native; image 2 is traveler identity/style reference. Preserve black suit, wooden ochre chair, seated crossed-leg pose and open stamp book on knee. Tie must be TERRACOTTA #A8503A. Remove map completely, nothing behind person: pure flat cream background. Head tilted DOWN and turned toward open book on knee; eyes lowered to stamps, small satisfied CLOSED-mouth smile. Place chair and person toward LOWER RIGHT, while maintaining at least 8% empty margin on all sides and person at least 55% image height. No text. Keep stamp symbols in book.
